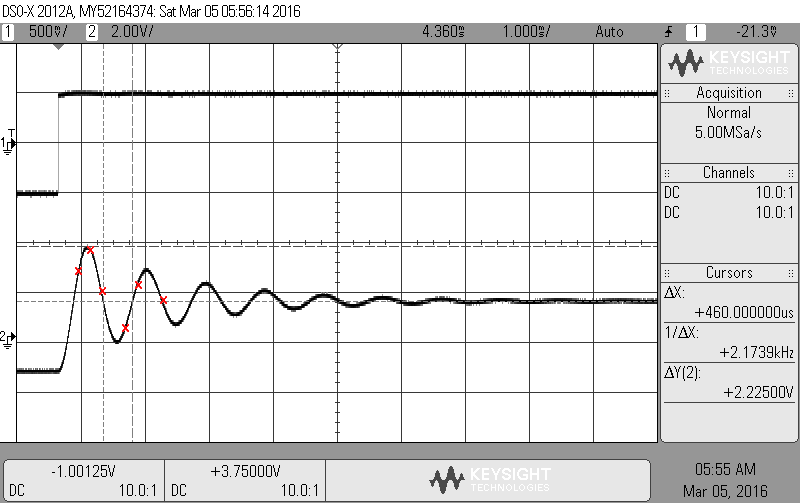
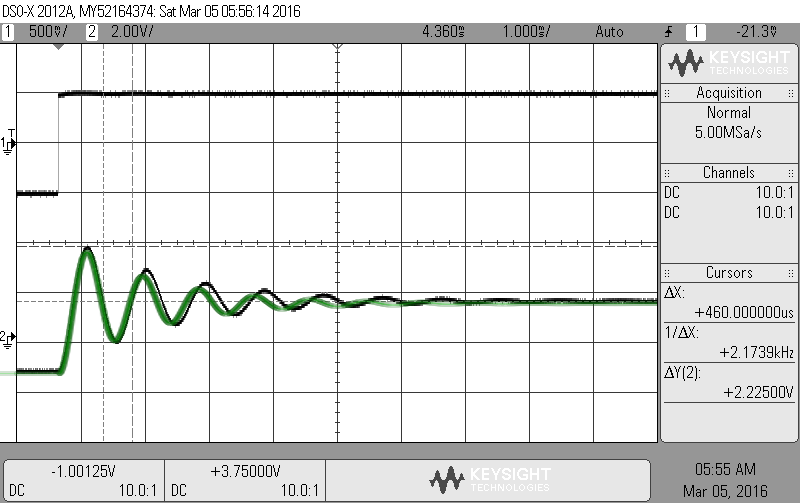
Changed simulation overlay to LTSpice waveform

Changed region(s): [[0.0, 0.4771, 0.8125, 0.7455]]

diff --git a/lab03/sections/results-and-discussion.tex b/lab03/sections/results-and-discussion.tex
@@ -42,6 +42,6 @@ a(t) = {G(1-{1 \over \beta}exp(-t\zeta\omega_0)sin(t\omega_0\beta + \theta))}
 \begin{figure}
 	\centering
 	\includegraphics[width=0.7\linewidth]{graphics/overshoot_simulated}
-	\caption{Some simulated time domain response values over the measured response of the second order system}
+	\caption{Simulated time domain response (green) over the measured response of the second order system}
 	\label{fig:overshoot_sim}
 \end{figure}
